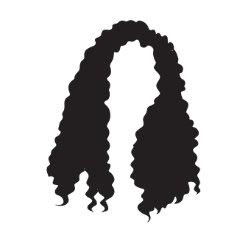
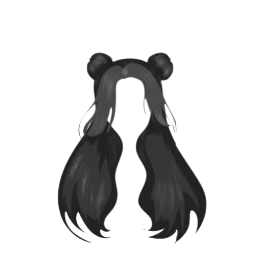
deleetd un necessary files and added all the hairs

Changed region(s): [[0.168, 0.0611, 0.812, 0.9782]]

diff --git a/style.css b/style.css
@@ -37,13 +37,13 @@ html,body{
     margin: 0;
 }
 #head{
-    width: 70px;
-    height: 120px;
-    border-radius: 100px;
+    width: 100px;
+    height: 140px;
+    border-radius:50px;
     border: 2px solid black;
     background-color:#E0AC69;
-    left: 450px;
-    top: 70px;
+    left: 430px;
+    top: 100px;
     position: absolute;
     z-index: 4;
 }
@@ -89,7 +89,7 @@ html,body{
     left: 311px;
     top: 147px;
     z-index: 5;
-    opacity: 1;
+    opacity: 0;
 }
 #dress{
     position: absolute;
@@ -128,6 +128,21 @@ html,body{
 #hair4{
     position: absolute;
     left: 360px;
-    top: 40px;
+    top: 0px;
     z-index: 7;
+    opacity:0;
+}
+#dress3{
+    position: absolute;
+    left: 340px;
+    top: 150px;
+    z-index: 6;
+    opacity: 1;
+}
+#hair5{
+    position: absolute;
+    left: 370px;
+    top: 70px;
+    z-index: 7;
+
 }

diff --git a/index.html b/index.html
@@ -27,6 +27,12 @@
             <div id="hair4">
                 <img src="hair4.png">
             </div>
+            <div id="hair5">
+                <img src="hair5.png">
+            </div>
+            <div id="dress3">
+                <img src="dress3.png">
+            </div>
             <div id="buttons">
                 <button id="hair"></button>
                 <button id="clothes"></button>